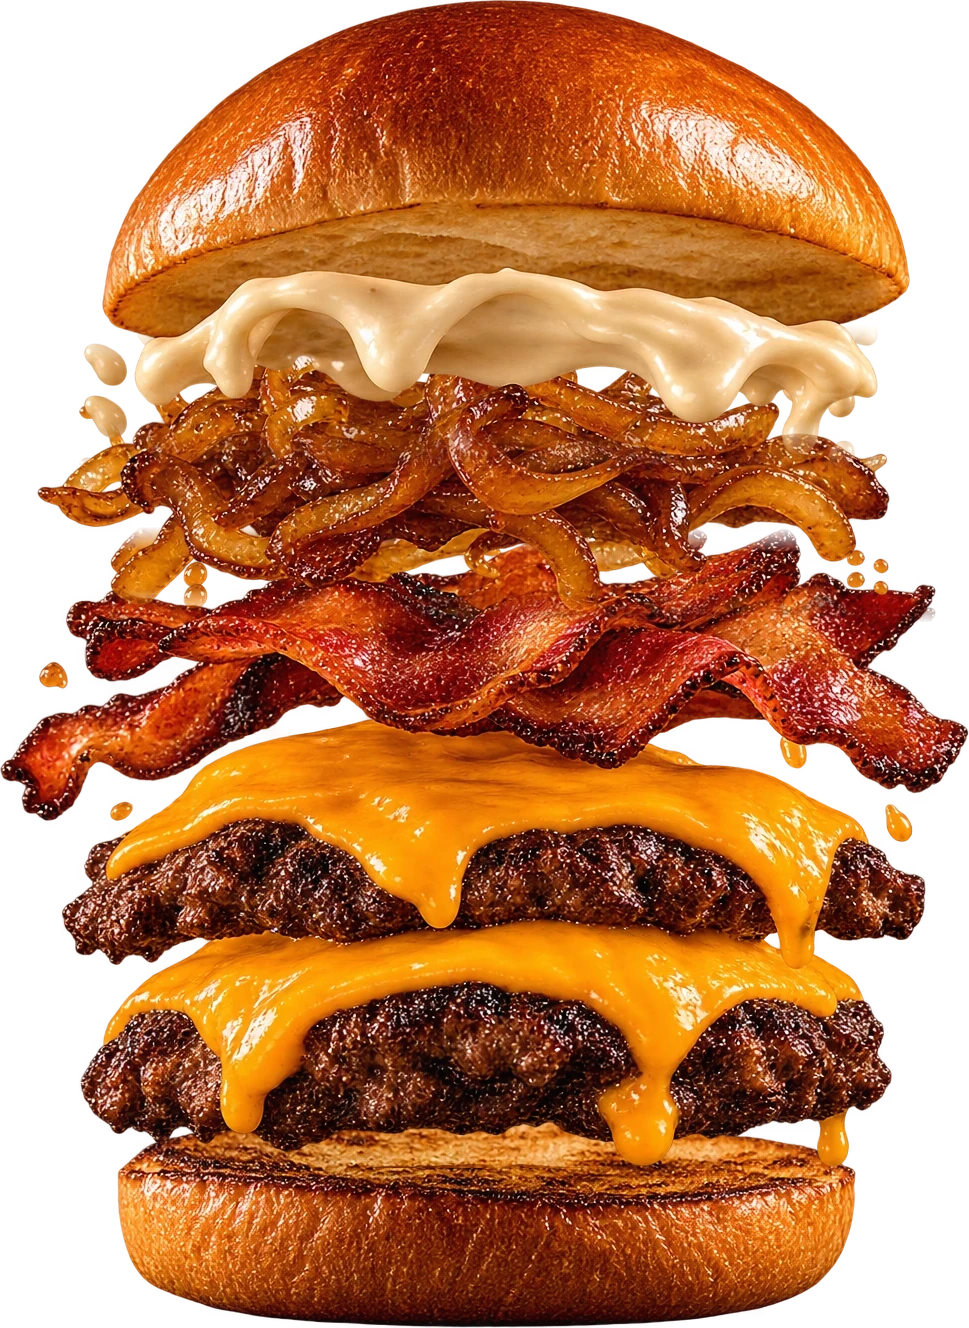
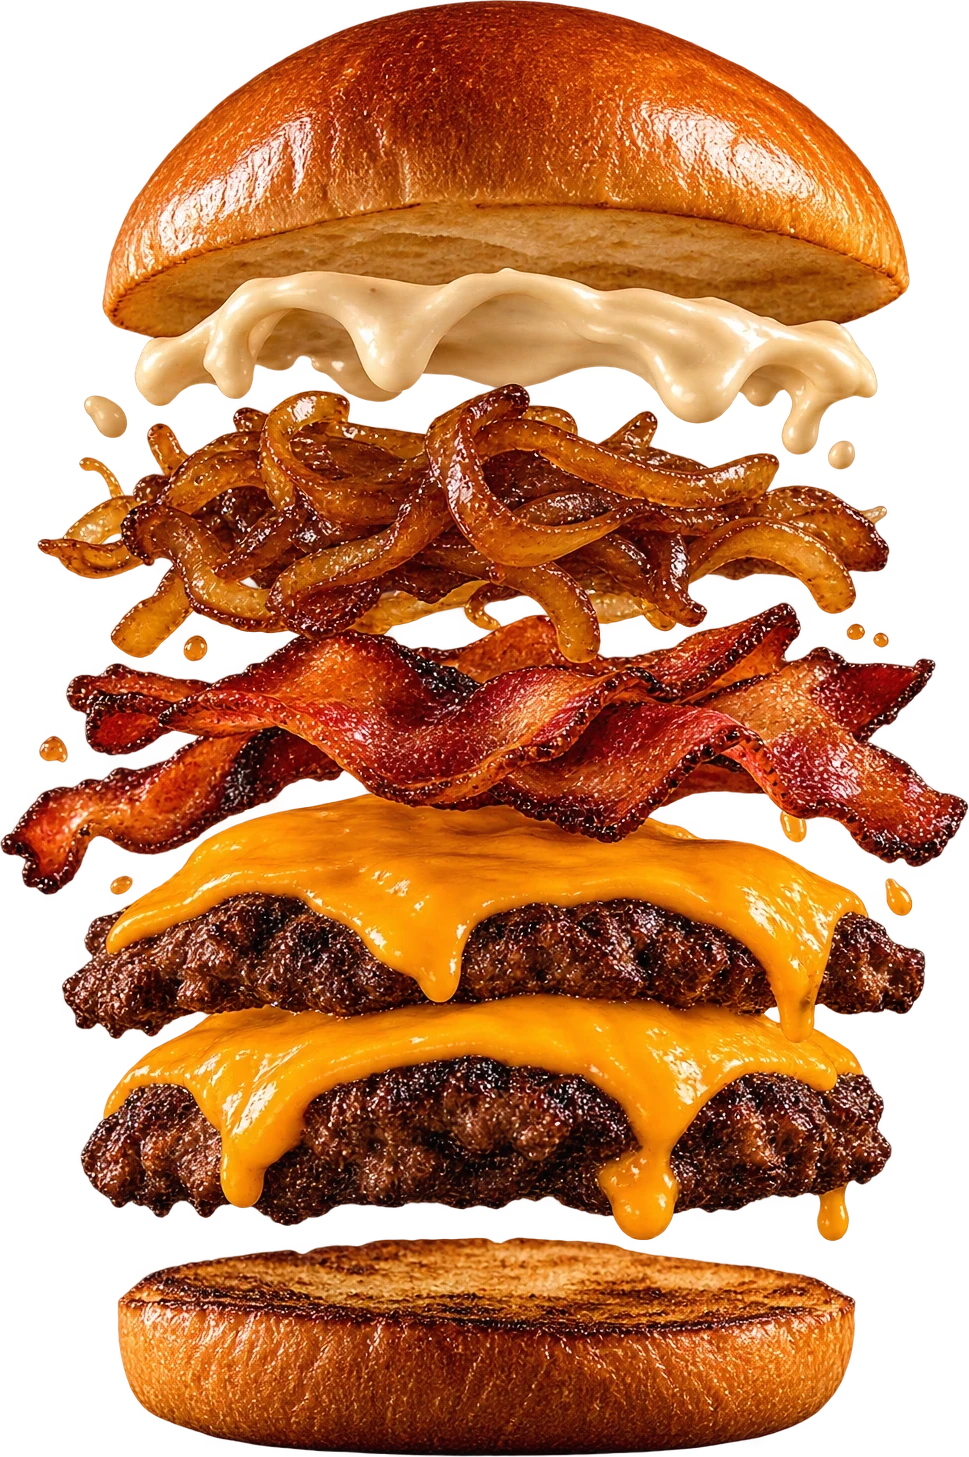
Título atrás do burger e ingredientes separados como na foto
- O título "JOHNY MELT" fica atrás da tela do burger durante a queda
- Camadas voltam às posições separadas da foto explodida
- Burger um pouco maior no hero

diff --git a/components/hero/FotoBurger.tsx b/components/hero/FotoBurger.tsx
@@ -99,7 +99,7 @@ export default function FotoBurger({ ctl, input, stage, mobile }: Props) {
   const texs = useTexture(ORDEM.map((n) => `/img/burger/${n}.webp`));
   const brilho = useMemo(() => spriteTexture(), []);
 
-  const altura = mobile ? 4.7 : 3.05; // altura do hambúrguer em unidades do mundo
+  const altura = mobile ? 5.0 : 3.4; // altura do hambúrguer em unidades do mundo
   const k = altura / LH;
   const largura = LW * k;
 
@@ -184,7 +184,7 @@ export default function FotoBurger({ ctl, input, stage, mobile }: Props) {
     const Hv = mobile ? 5.5 / aspect : Math.max(6.3, 8.6 / aspect);
     const cam = camera as THREE.PerspectiveCamera;
     const dist = Hv / 2 / Math.tan((cam.fov * Math.PI) / 360);
-    const ty = mobile ? -1.15 : 0.03;
+    const ty = mobile ? -1.2 : 0.0;
     cam.position.set(0, ty, dist);
     cam.lookAt(0, ty, 0);
     cam.updateMatrixWorld();

diff --git a/app/globals.css b/app/globals.css
@@ -461,6 +461,11 @@ section[id] {
   pointer-events: none;
 }
 
+/* o título fica ATRÁS do hambúrguer (a tela 3D, z-index 1, passa na frente dele) */
+.hero-topo {
+  z-index: 0;
+}
+
 .hero-base a,
 .hero-base button,
 .hero-restart {
